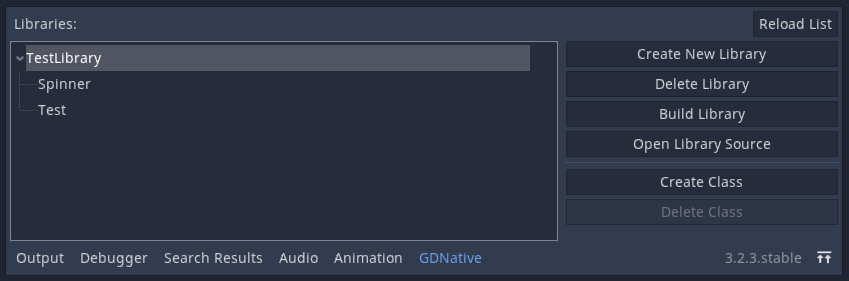
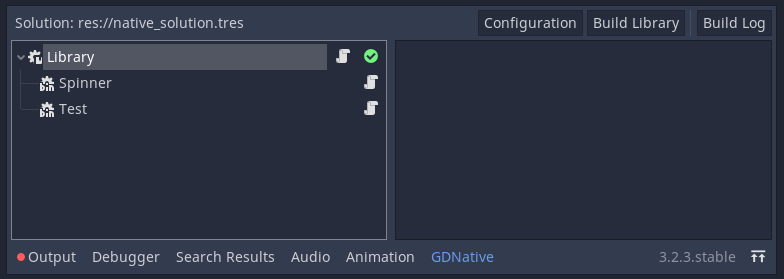
Updated README

diff --git a/README.md b/README.md
@@ -19,23 +19,25 @@ All you have to do is place the `silicon.util.gdnative_helper` into your project
 ## Creating Libraries and Scripts
 
 Upon enabling the addon, a `GDNative` tab should appear at the bottom. Open it, and the following interface will show up.
-![library_tab](doc_images/library_tab.png)
-> *NOTE*: If you make any changes to the library and or scripts outside of this tab, you may use the `Reload List` button to update the list.
+![new_library_tab](doc_images/new_library_tab.png)
 
-To create a library, simply press the `Create New Library` button on the right. A popup will show up with what you need to set up to create said library.
+To create a library, simply press the `Create New Library` button. A popup will show up with what you need to set up to create said library.
 ![create_lib_dialog](doc_images/create_lib_dialog.png)
 
 Simple, right? Just press create and you've made a library!
 
-The next step would be to create a class within your library. Select your library, and like library, press the `Create Class` Button. Change some settings, and press create!
+The next step would be to create a class within your library. Select your library and press `Ctrl-Shift-A`. Change some settings, and press create!
 
 ![create_class_dialog](doc_images/create_class_dialog.png)
 
+By now, your UI will probably look similar to this.
+![library_tab](doc_images/library_tab.png)
+
 ## Editing your library's source code
 
-The source files for your library and scripts are generated in a folder in `addons` called `gdnative_data`. By default, a `.gdignore` file is generated along with the library, so you can't see them in the Godot editor. to compensate, click the button `Open Library Source` to view your selected library's source code.
+The source files for your library and scripts are generated in a folder in `addons` called `gdnative_data`. By default, a `.gdignore` file is generated along with the library, so you can't see them in the Godot editor. to compensate, click the script icon beside the library or class to view its source code. Hold shift to view its header file, if it has any.
 
-Programming in your library's configured language is out of scope of this plugin's capabilities however.
+Programming in your library's configured language is out of scope of this plugin's capabilities.
 
 ## Building your libraries
 
@@ -43,18 +45,20 @@ Now. The moment you've been waiting for. Once you've written your code, you can 
 Press the `Build Library` button and the following dialog will appear.
 ![build_lib_dialog](doc_images/build_lib_dialog.png)
 
-From here, you may choose what platforms you may compile to, as well as what target(debug/release) you're building for. Unfortunately, depending on your platform, there are some limitations to this.
+From here, you may choose what platforms you may compile to, as well as whether it builds in debug mode not. There are also build options that appear depending on the language.
+
+Unfortunately, depending on your platform, there are some limitations to cross-compiling. In the case of C++ as of writing:
 
 * Windows users can't cross compile to Mac, Linux, or iOS.
 * Linux users can't cross compile to iOS.
 
 These problems can be solved by using a virtual machine for each platform and running and building your projects from there.
 
-Once you're ready though, you can press the `Build` button and... wait. It will take a while for the building process to complete. In the case of C++, it will take even longer the first time since the bindings have to be compiled first.
+Once you're ready though, you can press the `Build Library` button and... wait. It will take a while for the building process to complete. In the case of C++, it will take even longer the first time since the bindings have to be compiled first.
 If you have multiple libraries, you can also have those pending to build i.e., build when the other library is done.
 
-Whether the building process succeeds or not, you'll find the errors, warnings and such in the `Output` tab. If the build process has succeeded, the static/dynamic libraries will be found in the `bin` folder for the built library. And that's pretty much it!
-> **WARNING**: On Windows, if you start the editor with a built dll already, you might come across a permission access error. If that happens, you'll have to manually delete the older dll before you can rebuild your library.
+Whether the building process succeeds or not, you'll find the errors, warnings and such in the space beside the list of libraries and classes. If the build process has succeeded, the static/dynamic libraries will be found in the `bin` folder for the built library. And that's pretty much it!
+> **WARNING**: On Windows, if you have a built dll already, you might come across a permission access error. If that happens, you'll have to manually delete the older dll before you can rebuild your library.
 
 ## Multiple languages
 
@@ -63,14 +67,7 @@ The default languages are C++ and C. However, you may set up other languages too
 * `library_templates`: File(s) named `library_template` will be used by the plugin to generate a library. It can have any extension.
 * `class_templates`: File(s) named `class_template` will be used by the plugin to generate a class. It can have any extension.
 * `build.py`: The plugin runs this python script to build with.
-
-With the build script, the plugin passes the following arguments to it.
-
-1. The path to a library's source and binary folders
-2. The extension of the resulting library
-3. The platform being built to
-4. The architecture (64-bit, armv7, etc...) being built to
-5. The target (debug or release) being built to
+* `config.json`: Additional per build data that is used by the build script.
 
 ## Contributing
 
